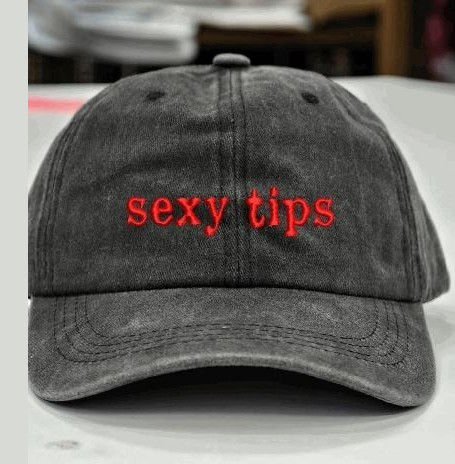
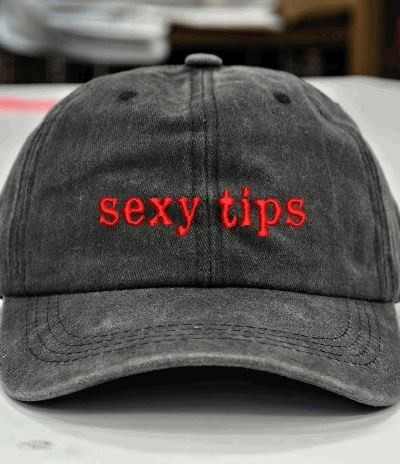
бегущие строки, описание дропа, лукбук (инста+стол), кепка по центру, межстрочные, моб-фиксы (меню, подсказка цвета)

diff --git a/index.html b/index.html
@@ -61,7 +61,7 @@
 <!-- mobile nav -->
 <nav class="mnav">
   <a href="/">ГЛАВНАЯ</a>
-  <a href="#drop">ДРОП <small>БЭНГЕР 2800₽</small></a>
+  <a href="#drop">ДРОП</a>
   <a href="#look">ЛУКБУК</a>
   <a href="/catalog">КАТАЛОГ</a>
   <div class="mfoot">@ssexytips · МОСКВА · 2026</div>
@@ -92,7 +92,7 @@
         <span class="l2 glitch" data-txt="TIPS">TIPS</span>
       </h1>
       <div class="hero__sub">
-        <p>FW/26 — <span class="hot">DROP 01 «БЭНГЕР»</span> · ОВЕРСАЙЗ · ПАРТИЯ ОГРАНИЧЕНА · СДЕЛАНО НА ПРОИЗВОДСТВЕ РУКАМИ</p>
+        <p>ОСЕНЬ–ЗИМА ’26 — <span class="hot">DROP 01 «БЭНГЕР»</span> · ОВЕРСАЙЗ · ПАРТИЯ ОГРАНИЧЕНА · СДЕЛАНО НА ПРОИЗВОДСТВЕ РУКАМИ</p>
         <a class="btn btn--hot" href="/catalog" data-magnet="0.25" data-cursor="го"><span>СМОТРЕТЬ ДРОП <span class="arr">→</span></span></a>
       </div>
     </div>
@@ -105,10 +105,11 @@
 <div class="marquee marquee--hot" aria-hidden="true">
   <div class="marquee__track">
     <span class="marquee__item">SEXY TIPS НАЧИНАЕТСЯ С ТЕБЯ</span>
-    <span class="marquee__item">DROP 01 · БЭНГЕР</span>
-    <span class="marquee__item">ОВЕРСАЙЗ ПРЕМИУМ</span>
+    <span class="marquee__item">НЕ ДЛЯ СКРОМНЫХ</span>
+    <span class="marquee__item">СУБКУЛЬТУРА СЕКСИ ТИПОВ</span>
+    <span class="marquee__item">МЕРЧ, КОТОРЫЙ ВИДНО В ТЕМНОТЕ</span>
     <span class="marquee__item">МОСКВА 24/7</span>
-    <span class="marquee__item">КОЛИЧЕСТВО ОГРАНИЧЕНО</span>
+    <span class="marquee__item">18+</span>
   </div>
 </div>
 
@@ -188,12 +189,14 @@
     </div>
 
     <div class="look__grid" data-stagger>
-      <figure class="look__cell" data-cursor="2026"><img src="assets/img/look_01.jpg" alt="пара в красных футболках"><figcaption>SEXY TIPS // ПАРА</figcaption></figure>
-      <figure class="look__cell"><img src="assets/img/look_03.jpg" alt="худи на улице"><figcaption>NIGHT // ХУДИ</figcaption></figure>
+      <figure class="look__cell" data-cursor="туса"><img src="assets/img/look_a.jpg" alt="туса в sexy tips"><figcaption>SEXY TIPS // ТУСА</figcaption></figure>
+      <figure class="look__cell"><img src="assets/img/look_c.jpg" alt="диджей в кресте"><figcaption>DJ // КРЕСТ</figcaption></figure>
       <figure class="look__cell"><video src="assets/video/look_01.mp4" autoplay muted loop playsinline></video><figcaption>VIDEO // IRL</figcaption></figure>
-      <figure class="look__cell"><img src="assets/img/look_02.jpg" alt="портрет"><figcaption>ТИП // NIGHT</figcaption></figure>
-      <figure class="look__cell"><img src="assets/img/look_04.jpg" alt="лук"><figcaption>STREET</figcaption></figure>
-      <figure class="look__cell"><img src="assets/img/look_05.jpg" alt="лук"><figcaption>LOOK // FW26</figcaption></figure>
+      <figure class="look__cell"><img src="assets/img/look_b.jpg" alt="фестиваль"><figcaption>ФЕСТ // PINK</figcaption></figure>
+      <figure class="look__cell"><img src="assets/img/look_f.jpg" alt="на танцполе"><figcaption>RAVE // НОЧЬ</figcaption></figure>
+      <figure class="look__cell"><img src="assets/img/look_d.jpg" alt="лонгслив"><figcaption>LOOK // ANDEGRAUND</figcaption></figure>
+      <figure class="look__cell" data-cursor="лестница"><img src="assets/img/look_g.jpg" alt="на лестнице"><figcaption>STAIRS // ОПАСНО</figcaption></figure>
+      <figure class="look__cell"><img src="assets/img/look_e.jpg" alt="принт карты"><figcaption>BACK // КАРТЫ</figcaption></figure>
     </div>
   </div>
 </section>
@@ -201,12 +204,11 @@
 <!-- marquee 2 -->
 <div class="marquee marquee--ice" aria-hidden="true">
   <div class="marquee__track">
-    <span class="marquee__item">СЕРЕБРО</span>
-    <span class="marquee__item">ХРОМ</span>
-    <span class="marquee__item">БЛЕСК</span>
-    <span class="marquee__item">СЕТКА</span>
-    <span class="marquee__item">ГОЛУБОЙ</span>
-    <span class="marquee__item">ЧЁРНЫЙ</span>
+    <span class="marquee__item">СОВЕТ №1: НОСИ ЧЁРНОЕ</span>
+    <span class="marquee__item">СОВЕТ №2: НЕ БУДЬ СКРОМНЫМ</span>
+    <span class="marquee__item">СОВЕТ №3: ТАНЦУЙ ДО УТРА</span>
+    <span class="marquee__item">СОВЕТ №4: ВЛЮБЛЯЙСЯ БЫСТРО</span>
+    <span class="marquee__item">СОВЕТ №5: ОДЕВАЙСЯ ГОРЯЧО</span>
   </div>
 </div>
 

diff --git a/assets/css/style.css b/assets/css/style.css
@@ -489,7 +489,7 @@ section{position:relative}
 .card:hover .card__media .swatches{opacity:1;transform:none}
 .card__body{padding:12px 14px 14px;display:flex;flex-direction:column;gap:3px}
 .card__row{display:flex;justify-content:space-between;align-items:baseline;gap:12px}
-.card__name{font-family:var(--f-disp);font-weight:800;font-size:18px;text-transform:uppercase;letter-spacing:-.01em;line-height:1.05}
+.card__name{font-family:var(--f-disp);font-weight:800;font-size:18px;text-transform:uppercase;letter-spacing:-.01em;line-height:1.18}
 .card__price{font-family:var(--f-mono);font-size:14px;letter-spacing:.04em;color:var(--bone);white-space:nowrap}
 .card__price.sold{color:var(--mut);text-decoration:line-through}
 .card__meta{font-family:var(--f-mono);font-size:10px;letter-spacing:.16em;color:var(--mut);text-transform:uppercase;margin-top:4px}
@@ -545,7 +545,7 @@ section{position:relative}
 .modal__info{padding:clamp(22px,3vw,40px);display:flex;flex-direction:column;gap:20px;min-width:0}
 .modal__info .top{display:flex;justify-content:space-between;align-items:flex-start;gap:16px}
 .modal__info .top>div{min-width:0}
-.modal__info h3{font-family:var(--f-disp);font-weight:900;font-size:clamp(24px,2.3vw,32px);text-transform:uppercase;line-height:.95;letter-spacing:-.02em}
+.modal__info h3{font-family:var(--f-disp);font-weight:900;font-size:clamp(24px,2.3vw,32px);text-transform:uppercase;line-height:1.12;letter-spacing:-.02em}
 .modal__close{flex:none;width:42px;height:42px;border:1px solid var(--line-strong);display:grid;place-items:center;transition:.3s}
 .modal__close:hover{background:var(--hot);color:#000;border-color:var(--hot);transform:rotate(90deg)}
 .modal__desc{font-family:var(--f-body);font-size:14px;line-height:1.7;color:var(--mut)}
@@ -661,6 +661,8 @@ section{position:relative}
     font-size:25vw;letter-spacing:-.04em;margin:0}
   .hero__sub{margin-top:0;padding:22px 0 26px}
   .hero__scroll{display:none}
+  /* на телефоне подсказка смены цвета бесполезна (нет ховера) — убираем */
+  .drop__visual .flip{display:none}
   /* на телефоне убираем огромные вертикальные отступы между секциями */
   .drop{padding-bottom:46px}
   .look{padding-top:40px}